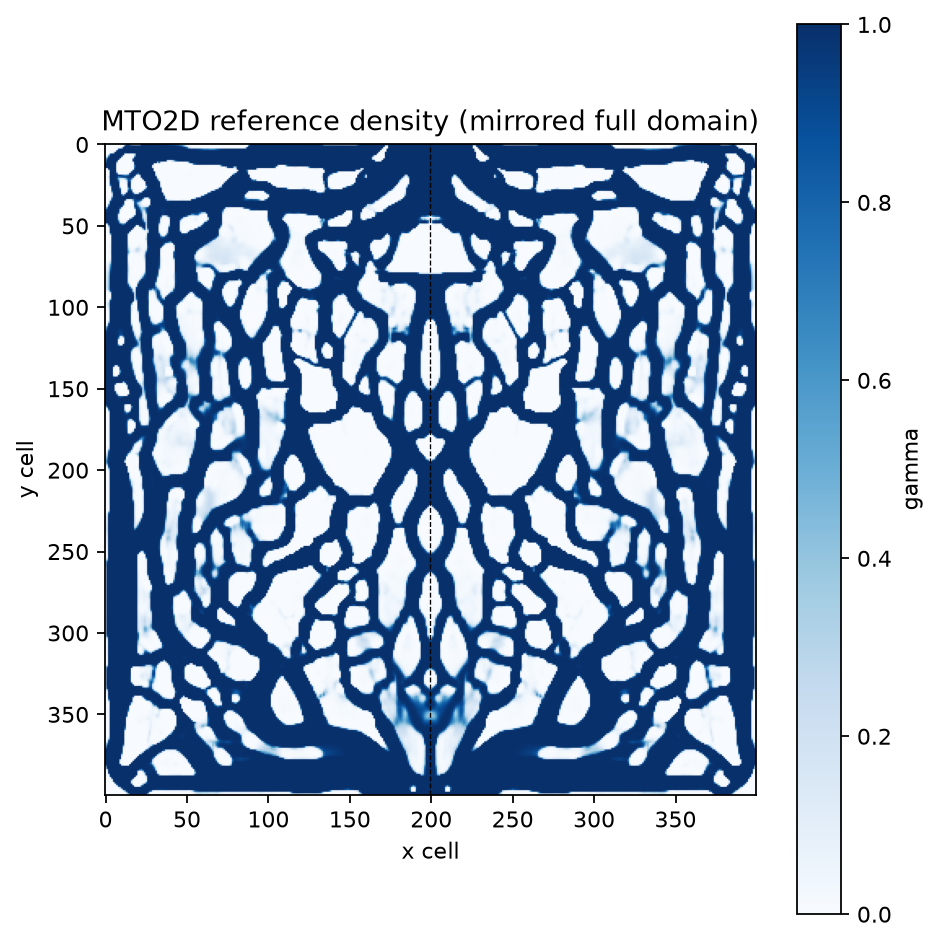
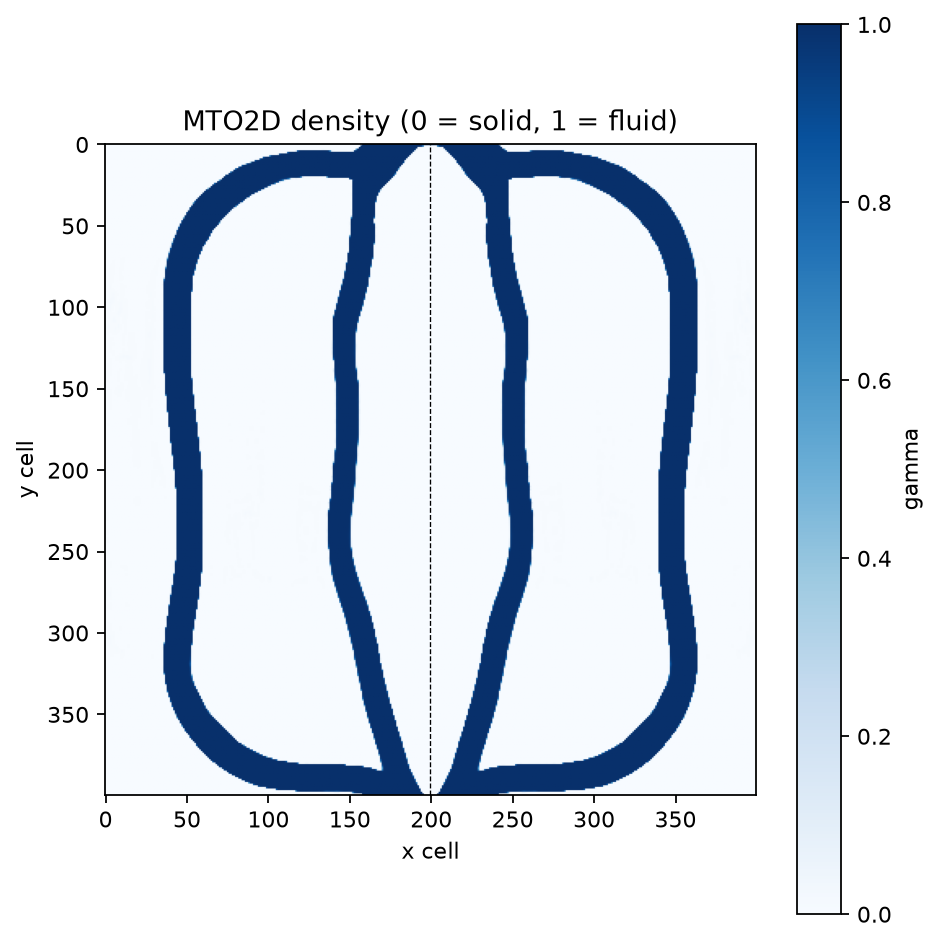
docs(mto2d): clarify setup and add dataset figures

Changed region(s): [[0.0927, 0.0922, 0.803, 0.8602]]

diff --git a/docs/problems/mto2d.md b/docs/problems/mto2d.md
@@ -19,6 +19,20 @@ The problem, solver, and dataset follow the VQGAN-for-MTO study by Drake et
 al., which generated thousands of optimized heat sinks over a range of inlet
 velocities, power-dissipation limits, and fluid volume fractions.
 
+## Problem setup
+
+MTO2D models one symmetric half of a water-cooled rectangular heat sink.
+Coolant enters through a channel at the top, flows through channels placed by
+the optimizer, and leaves through a channel at the bottom. The paper uses a
+10 mm design-domain length, a 2 mm inlet scale, and a uniform heat source of
+`1e8 W/m²`.
+
+The inlet has fixed velocity and reference temperature (`T = 0`). The outlet
+has zero pressure and no normal temperature gradient. The remaining outer
+walls are no-slip and adiabatic, and the centerline is a symmetry boundary.
+For every proposed material layout, the solver computes steady incompressible
+flow and heat transfer.
+
 ## Design space
 
 A design is a `float32` array with shape `(400, 200)` and values in `[0, 1]`,
@@ -28,6 +42,10 @@ storing the non-redundant left half of the symmetric design domain:
 - `gamma = 1` means fluid.
 - `render()` mirrors the half-domain horizontally into a symmetric
   `(400, 400)` image.
+
+The example above is a mirrored `400 x 400` rendering of public dataset row
+`train[1977]` (`volfrac = 0.26`), selected for its sparse, smooth fluid
+channels.
 
 The underlying OpenFOAM field has 86,400 cells: the first 80,000 encode the
 `(400, 200)` design in two solver-specific mesh blocks, and the remaining
@@ -48,18 +66,20 @@ simulation never silently resizes a topology.
 
 ## Objectives
 
-Objective arrays always use this order:
+EngiBench minimizes both reported objectives, in this order:
 
-0. `mean_temperature`: mean temperature over the domain, to minimize.
-1. `power_dissipation`: normalized fluid power dissipation, to minimize.
+0. `mean_temperature`: mean temperature over the domain, reported in degrees
+   Celsius.
+1. `power_dissipation`: measured fluid power dissipation, reported as the
+   factor `J/J1`.
 
-The native optimization formulation minimizes mean temperature only; power
-dissipation and fluid volume are solver constraints. Power dissipation is also
-reported as a second EngiBench objective so that designs can be compared in
-Pareto studies. Because the power constraint depends on the simulation output,
-it cannot be checked from inputs alone: `simulate_verbose()` reports its
-relative residual as `power_dissipation / max_power_dissipation - 1` together
-with the solver-reported volume residual.
+The native MMA formulation uses mean temperature as its scalar objective and
+enforces fluid volume and `J < J̄` as constraints. EngiBench also exposes the
+measured `J` as a second objective so designs can be compared on a Pareto
+front. The condition `max_power_dissipation` is the input bound `J̄/J1`, not
+the measured objective. Because that constraint depends on simulation output,
+`simulate_verbose()` reports its relative residual as
+`power_dissipation / max_power_dissipation - 1`.
 
 ## Conditions
 
@@ -68,11 +88,12 @@ with the solver-reported volume residual.
 ```
 
 - `inlet_velocity`: signed inlet velocity, nominally from `-0.095` to
-  `-0.025` m/s, corresponding to Reynolds numbers from 50 to 190.
-- `max_power_dissipation`: dimensionless normalized power-dissipation limit,
-  nominally from `50` to `75`. The solver normalizes by
-  `D_normalization = 1.57572e-7`; the paper calls the rounded `J1 ≈ 1.58e-7`
-  reference scale.
+  `-0.025` m/s, corresponding to Reynolds numbers from 50 to 190; the negative
+  sign denotes flow direction.
+- `max_power_dissipation`: input bound `J̄/J1`, primarily sampled from `50` to
+  `75` in the stable sweep. The paper defines `J1 = 1.58e-7` as the reference
+  dissipation of a straight, uniform-width channel from inlet to outlet. The
+  solver uses the more precise normalization `1.57572e-7`.
 - `volfrac`: maximum all-cell fluid fraction, nominally from `0.25`
   to `0.70`.
 
@@ -115,8 +136,28 @@ backends, runtime-image preparation, and usage.
 The dataset is hosted at
 [`IDEALLab/mto_2d_v0`](https://huggingface.co/datasets/IDEALLab/mto_2d_v0).
 Rows contain the flat `optimal_design`, the three condition fields, and both
-objective fields. The 4,249/283/1,134 train/validation/test splits follow the
-source paper's 75/5/20 policy.
+objective fields.
+
+The paper sampled 10,000 condition combinations with Latin hypercube
+sampling. An initial 5,000-case sweep used `J̄/J1` from 5 to 75; after many
+low-bound cases violated the power constraint, a second roughly 5,000-case
+sweep concentrated on 50 to 75. Both sweeps used `volfrac` from 0.25 to 0.70
+and Reynolds number from 50 to 190. Retaining only converged,
+constraint-satisfying runs produced 5,666 designs. Their
+4,249/283/1,134 train/validation/test splits follow the paper's 75/5/20 policy.
+
+```{figure} ../_static/img/problems/mto2d_pareto.png
+:alt: Pareto front of mean temperature and fluid power dissipation for the MTO2D dataset
+:name: mto2d-pareto-front
+:width: 700px
+:align: center
+
+The global dataset front contains 12 Pareto-optimal designs across all three
+splits and operating conditions. Both axes are minimized. Fluid power
+dissipation is shown in multiples of `J1`, where `J1 = 1.58e-7` is the paper's
+reference value. One 71.3 °C outlier lies above the displayed temperature
+range.
+```
 
 ## Citation
 

diff --git a/engibench/problems/mto2d/README.md b/engibench/problems/mto2d/README.md
@@ -2,7 +2,8 @@
 
 MTO2D is a two-dimensional thermofluid topology-optimization problem for a
 fluid-cooled heat sink. It couples steady flow and heat transfer with adjoint
-sensitivities and MMA design updates.
+sensitivities and MMA design updates. EngiBench reports mean temperature and
+fluid power dissipation as objectives, and both are minimized.
 
 The implementation is split into:
 
@@ -26,8 +27,9 @@ dataset has `train`, `val`, and `test` splits and six columns:
 - `inlet_velocity`, `max_power_dissipation`, and `volfrac`; and
 - `mean_temperature` and `power_dissipation`.
 
-`MTO2D().dataset` and the demo load that Hub dataset by default. A saved
-Hugging Face `DatasetDict` can be selected explicitly with `--dataset`.
+`MTO2D().dataset` and the demo load that Hub dataset by default. For offline
+use, load a saved Hugging Face `DatasetDict` with `datasets.load_from_disk()`
+and pass it as `MTO2D(dataset=dataset)`.
 
 ## Simulation
 
